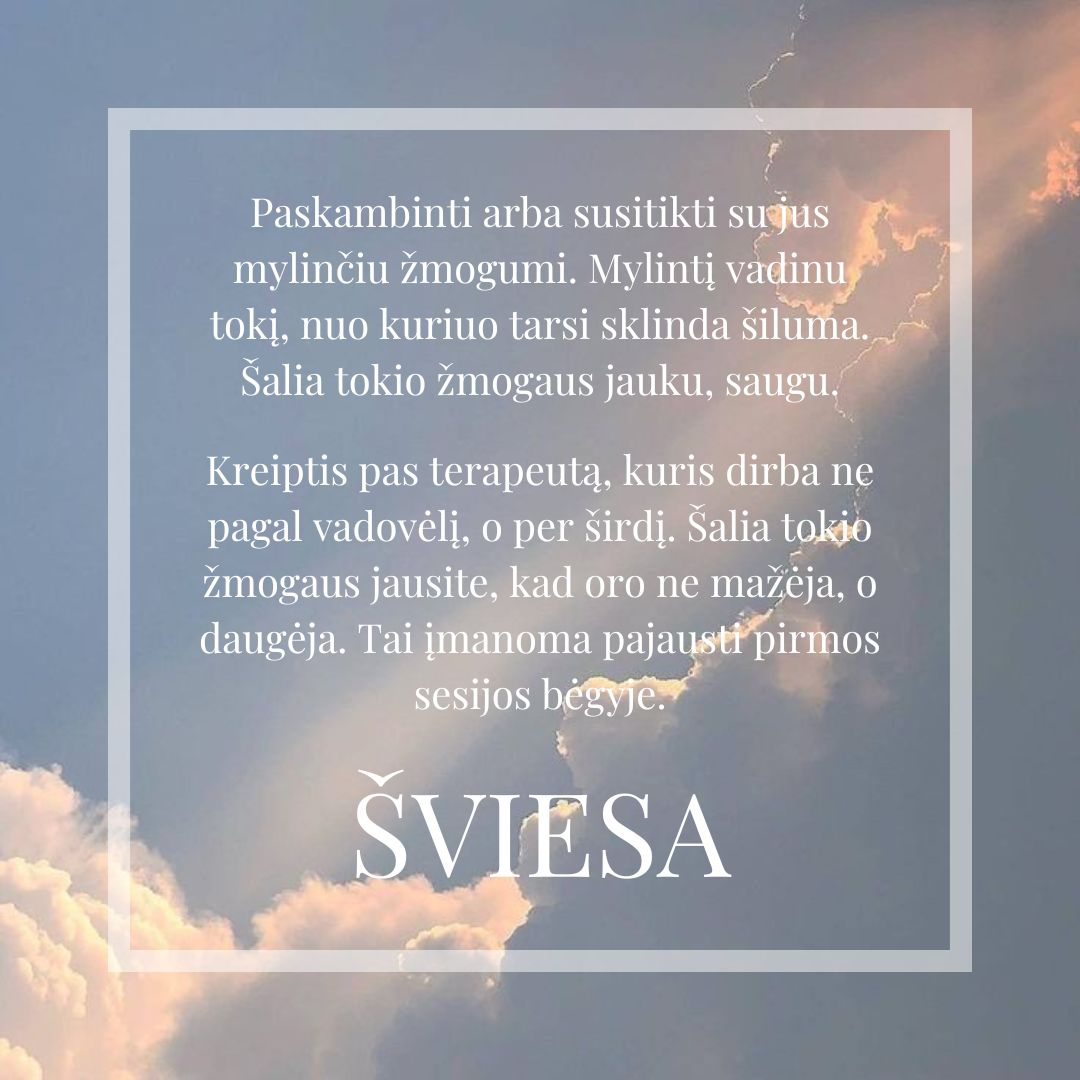
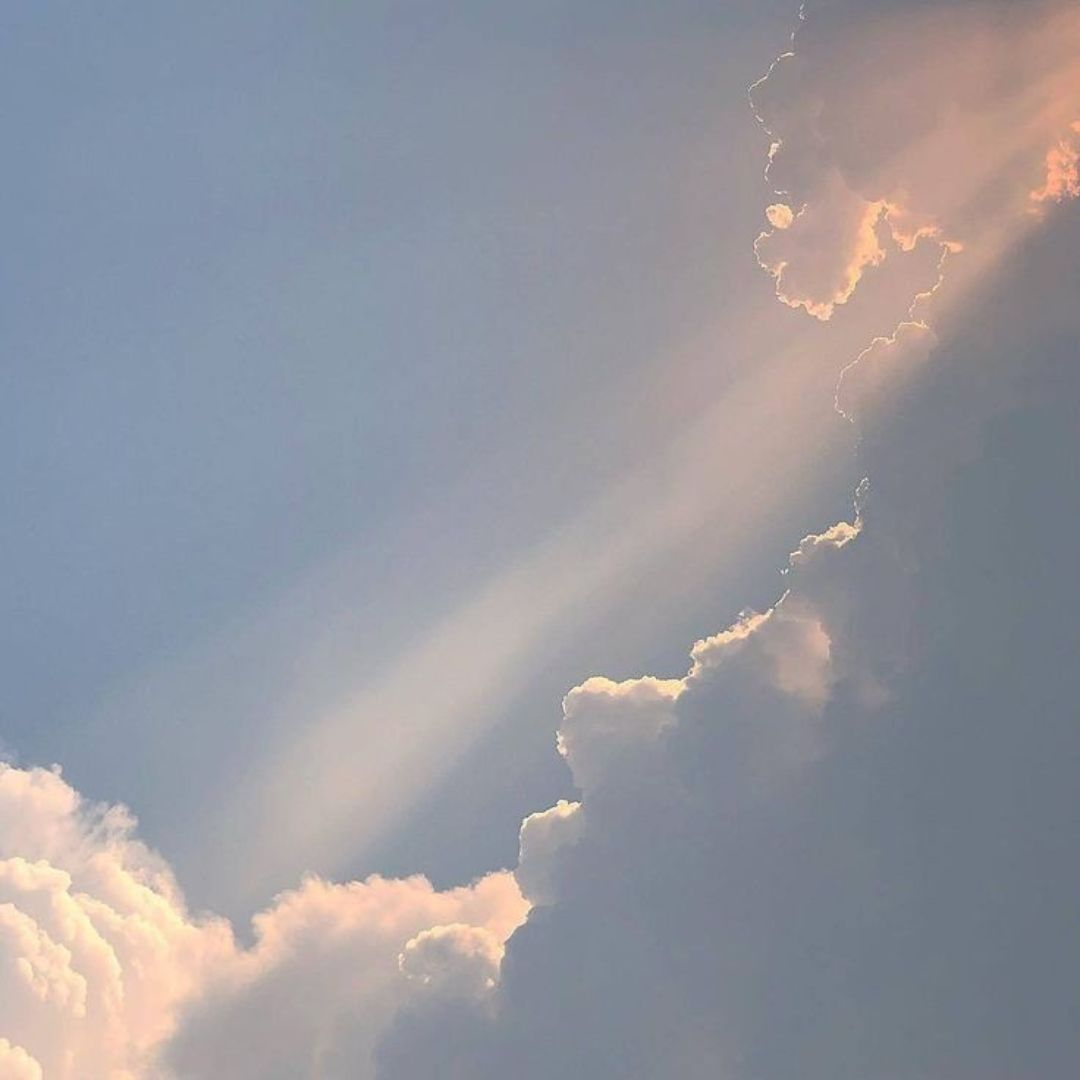
panika

diff --git a/tekstai/panika.html b/tekstai/panika.html
@@ -5,10 +5,10 @@
     <meta name="viewport" content="width=device-width, initial-scale=1.0">
 
     <!-- Primary Meta Tags -->
-    <title>Panika | Kaip nusiraminti | Oleg Čeklu</title>
-    <meta name="title" content="Panika | Kaip nusiraminti | Oleg Čeklu">
-    <meta name="description" content="Praktiniai žingsniai kaip grįžti į savo fizinį kūną per panikos priepuolį. Žemė, Oras, Šviesa – trys stichijos saugumo jausmui atkurti.">
-    <meta name="keywords" content="panika, panikos priepuolis, kaip nusiraminti, nerimas, savipagalba, kvėpavimas, žemė oras šviesa, judesio terapija, psichodrama, psichologinė pagalba Vilniuje, kūno terapija">
+    <title>Panikos priepuolis | Kaip nusiraminti | Oleg Čeklu</title>
+    <meta name="title" content="Panikos priepuolis | Kaip nusiraminti | Oleg Čeklu">
+    <meta name="description" content="Praktiniai žingsniai kaip nusiraminti ir grįžti į savo fizinį kūną per panikos priepuolį.">
+    <meta name="keywords" content="panika, panikos priepuolis, kaip nusiraminti, nerimas, savipagalba, kvėpavimas, judesio terapija, psichodrama, psichologinė pagalba Vilniuje, kūno terapija, meno terapija, 5 meilės stichijos">
     <meta name="author" content="Oleg Čeklu">
     <meta name="robots" content="index, follow">
 
@@ -18,8 +18,8 @@
     <!-- Open Graph / Facebook -->
     <meta property="og:type" content="article">
     <meta property="og:url" content="https://psichodramospraktikas.lt/tekstai/panika.html">
-    <meta property="og:title" content="Panika | Kaip nusiraminti | Oleg Čeklu">
-    <meta property="og:description" content="Praktiniai žingsniai kaip grįžti į savo fizinį kūną per panikos priepuolį. Žemė, Oras, Šviesa – trys stichijos saugumo jausmui atkurti.">
+    <meta property="og:title" content="Panikos priepuolis | Kaip nusiraminti | Oleg Čeklu">
+    <meta property="og:description" content="Praktiniai žingsniai kaip nusiraminti ir grįžti į savo fizinį kūną per panikos priepuolį.">
     <meta property="og:image" content="https://psichodramospraktikas.lt/images/blog/panika-oras.jpg">
     <meta property="og:locale" content="lt_LT">
     <meta property="article:published_time" content="2023-04-02T00:00:00+03:00">
@@ -32,8 +32,8 @@
     <!-- Twitter -->
     <meta property="twitter:card" content="summary_large_image">
     <meta property="twitter:url" content="https://psichodramospraktikas.lt/tekstai/panika.html">
-    <meta property="twitter:title" content="Panika | Kaip nusiraminti | Oleg Čeklu">
-    <meta property="twitter:description" content="Praktiniai žingsniai kaip grįžti į savo fizinį kūną per panikos priepuolį. Žemė, Oras, Šviesa – trys stichijos saugumo jausmui atkurti.">
+    <meta property="twitter:title" content="Panikos priepuolis | Kaip nusiraminti | Oleg Čeklu">
+    <meta property="twitter:description" content="Praktiniai žingsniai kaip nusiraminti ir grįžti į savo fizinį kūną per panikos priepuolį.">
     <meta property="twitter:image" content="https://psichodramospraktikas.lt/images/blog/panika-oras.jpg">
 
     <!-- Favicon -->
@@ -53,7 +53,7 @@
     <style>
         .stichijos-grid {
             display: grid;
-            grid-template-columns: repeat(2, 1fr);
+            grid-template-columns: repeat(3, 1fr);
             gap: var(--space-xl);
             margin: var(--space-2xl) 0;
         }
@@ -95,7 +95,7 @@
     {
       "@context": "https://schema.org",
       "@type": "Article",
-      "headline": "Panika | Kaip nusiraminti",
+      "headline": "Panikos priepuolis | Kaip nusiraminti",
       "alternativeHeadline": "Praktiniai žingsniai grįžti į kūną per panikos priepuolį",
       "image": "https://psichodramospraktikas.lt/images/blog/panika-oras.jpg",
       "author": {
@@ -110,6 +110,8 @@
         "@type": "WebPage",
         "@id": "https://psichodramospraktikas.lt/tekstai/panika.html"
       },
+      "url": "https://psichodramospraktikas.lt/tekstai/panika.html",
+      "description": "Praktiniai žingsniai kaip nusiraminti ir grįžti į savo fizinį kūną per panikos priepuolį.",
       "articleSection": "Savipagalba",
       "keywords": ["panika", "panikos priepuolis", "nerimas", "savipagalba", "kvėpavimas", "kūno terapija", "judesio terapija"],
       "inLanguage": "lt"
@@ -215,18 +217,6 @@
                         </div>
                     </div>
 
-                    <!-- Card 4: LIKTI KŪNE -->
-                    <div class="stichija-card">
-                        <img
-                            src="../images/blog/panika-kune.jpg"
-                            alt="Likti kūne – palaikyti kontaktą"
-                            loading="lazy"
-                        >
-                        <div class="stichija-card-body">
-                            <p class="stichija-card-title">Likti kūne</p>
-                            <p>Likti kūne gali padėti bet kas, kas bus malonu jūsų kūnui: šviežiai spaustos sultys, saulės spinduliai, joga arba pagal mano patirtį, efektyviausia – šokių terapijos praktika. Svarbu palaikyti kontaktą su kūnu.</p>
-                        </div>
-                    </div>
 
                 </div>
 
@@ -234,40 +224,43 @@
                     Žingsnis po žingsnio:
                 </p>
 
-                <p>
-                    1⃣ Kvėpuoti. Taip pradėsime grąžinti Orą.
-                </p>
-
-                <p>
-                    Tolimesnius žingsnius galima kaitalioti priklausomai nuo situacijos.
-                </p>
-
-                <p>
-                    2⃣ Inicijuoti ir stebėti fizinį pojūtį. Taip pradėsime grąžinti Žemę.
-                </p>
-
-                <p>
-                    3⃣ Garsiai įvardyti, kas jūs, kur esate, ką matote ir jaučiate šią akimirką. Pavyzdžiui, aš (vardas, pavardė) esu Vilniaus parke (vietos pavadinimas), stoviu abiem savo kojomis ant žalios pievos. Esu apsirengęs raudoną striukę su juodu užtrauktuku. Aviu 43 dydžio baltus batus, šiek tiek suspaustas didelis kairės kojos pirštas. Taip tęsime grąžinti Žemę.
-                </p>
-
-                <p>
-                    4⃣ Paskambinti ar susitikti su jus mylinčiu žmogumi. Taip pradėsime grąžinti Šviesą.
-                </p>
+                <div style="margin: var(--space-lg) 0;">
+                    <div style="margin-bottom: var(--space-md);">
+                        <p><strong>Kvėpuoti.</strong> Taip pradėsime grąžinti Orą.</p>
+                    </div>
+                    <div style="margin-bottom: var(--space-md);">
+                        <p>Inicijuoti ir <strong>stebėti fizinį pojūtį.</strong> Taip pradėsime grąžinti Žemę.</p>
+                    </div>
+                    <div style="margin-bottom: var(--space-md);">
+                        <p>Garsiai įvardyti, kas jūs, kur esate, <strong>ką matote ir jaučiate šią akimirką.</strong> Pavyzdžiui, aš (vardas, pavardė) esu Vilniaus parke (vietos pavadinimas), stoviu abiem savo kojomis ant žalios pievos. Esu apsirengęs raudoną striukę su juodu užtrauktuku. Aviu 43 dydžio baltus batus, šiek tiek suspaustas didelis kairės kojos pirštas. Taip tęsime grąžinti Žemę.</p>
+                    </div>
+                    <div style="margin-bottom: var(--space-md);">
+                        <p><strong>Susitikti su jus mylinčiu žmogumi.</strong> Jei šiuo metu tokio žmogaus nėra šalia – kreiptis į emocinės paramos specialistus, pavyzdžiui Jaunimo liniją. Taip pradėsime grąžinti Šviesą.</p>
+                    </div>
+                </div>
 
                 <p>
                     Atliekant išvardintus žingsnius gali kilti papildomi fiziniai pojūčiai – pavyzdžiui, dilgčiojimas ar atsipalaidavimas. Tai yra geras ženklas - vyksta komunikacija su kūnu. Nieko analizuoti nereikia. Tiesiog stebime ir fiksuojame.
                 </p>
 
                 <p>
-                    Sugrįžus į savo fizinį kūną, turbūt kils klausimas, kaip jame likti. Likti kūne gali padėti bet kas, kas bus malonu jūsų kūnui: šviežiai spaustos sultys, saulės spinduliai, joga arba pagal mano patirtį, efektyviausia – šokių terapijos praktika. Svarbu palaikyti kontaktą su kūnu.
+                    Sugrįžus į savo fizinį kūną, turbūt kils klausimas, kaip jame likti.
                 </p>
 
-                <p>
-                    Pilnai išlaikyti sveiką būseną padės trūkstančių Gamtos Stichijų papildymas ir jų subalansavimas.
-                </p>
+                <div class="stichija-card" style="max-width: 460px;">
+                    <img
+                        src="../images/blog/panika-kune.jpg"
+                        alt="Dėmesys kūnui – palaikyti kontaktą"
+                        loading="lazy"
+                    >
+                    <div class="stichija-card-body">
+                        <p class="stichija-card-title">Dėmesys kūnui</p>
+                        <p>Likti kūne gali padėti bet kas, kas bus malonu jūsų kūnui: šviežiai spaustos sultys, saulės spinduliai, joga arba pagal mano patirtį, efektyviausia – šokių terapijos praktika. Svarbu palaikyti kontaktą su kūnu.</p>
+                    </div>
+                </div>
 
                 <p>
-                    Jaučiant poreikį ir norą artimiau susipažinti su savimi ir savo kūnu, kviečiu susitikti mano sesijoje.
+                    Pilnai išlaikyti sveiką būseną padės trūkstančių Gamtos Stichijų papildymas ir jų subalansavimas. Apie tai išsamiai galima perskaityti naujoje gamtos, meilės ir žemiškos gyvenimo prasmės psichologijos knygoje „Penkios Meilės Stichijos“ (autorės – meditacijų mokytoja Agnė Vėželytė ir psichoterapeutė, šokių terapijos instruktorė Lina Dirmotė).
                 </p>
 
                 <!-- SHARE BLOCK -->

diff --git a/tekstai/darbas-tarp-vyru.html b/tekstai/darbas-tarp-vyru.html
@@ -110,7 +110,7 @@
     <section class="hero">
         <div class="container">
             <div class="article-header">
-                <p class="subheading-sm mb-sm text-light">VYRIŠKUMAS, SVEIKATA</p>
+                <p class="subheading-sm mb-sm text-light">ASMENINIS AUGIMAS, VYRIŠKUMAS</p>
                 <h1 class="heading-1 article-title">Darbas tarp vyrų |<br>Pasekmės sveikatai</h1>
                 <time class="meta-text" datetime="2025-05-16">GEGUŽĖ 16, 2025</time>
                     <span class="meta-text">·</span>
@@ -163,7 +163,7 @@
                 <!-- Image 2 -->
                 <figure>
                     <img
-                        src="../images/blog/darbas-tarp-vyru-3.jpg"
+                        src="../images/blog/darbas-tarp-vyru-4.jpg"
                         alt="Kelias link autentiško dvasinio tvirtumo"
                         class="article-image"
                         loading="lazy"
